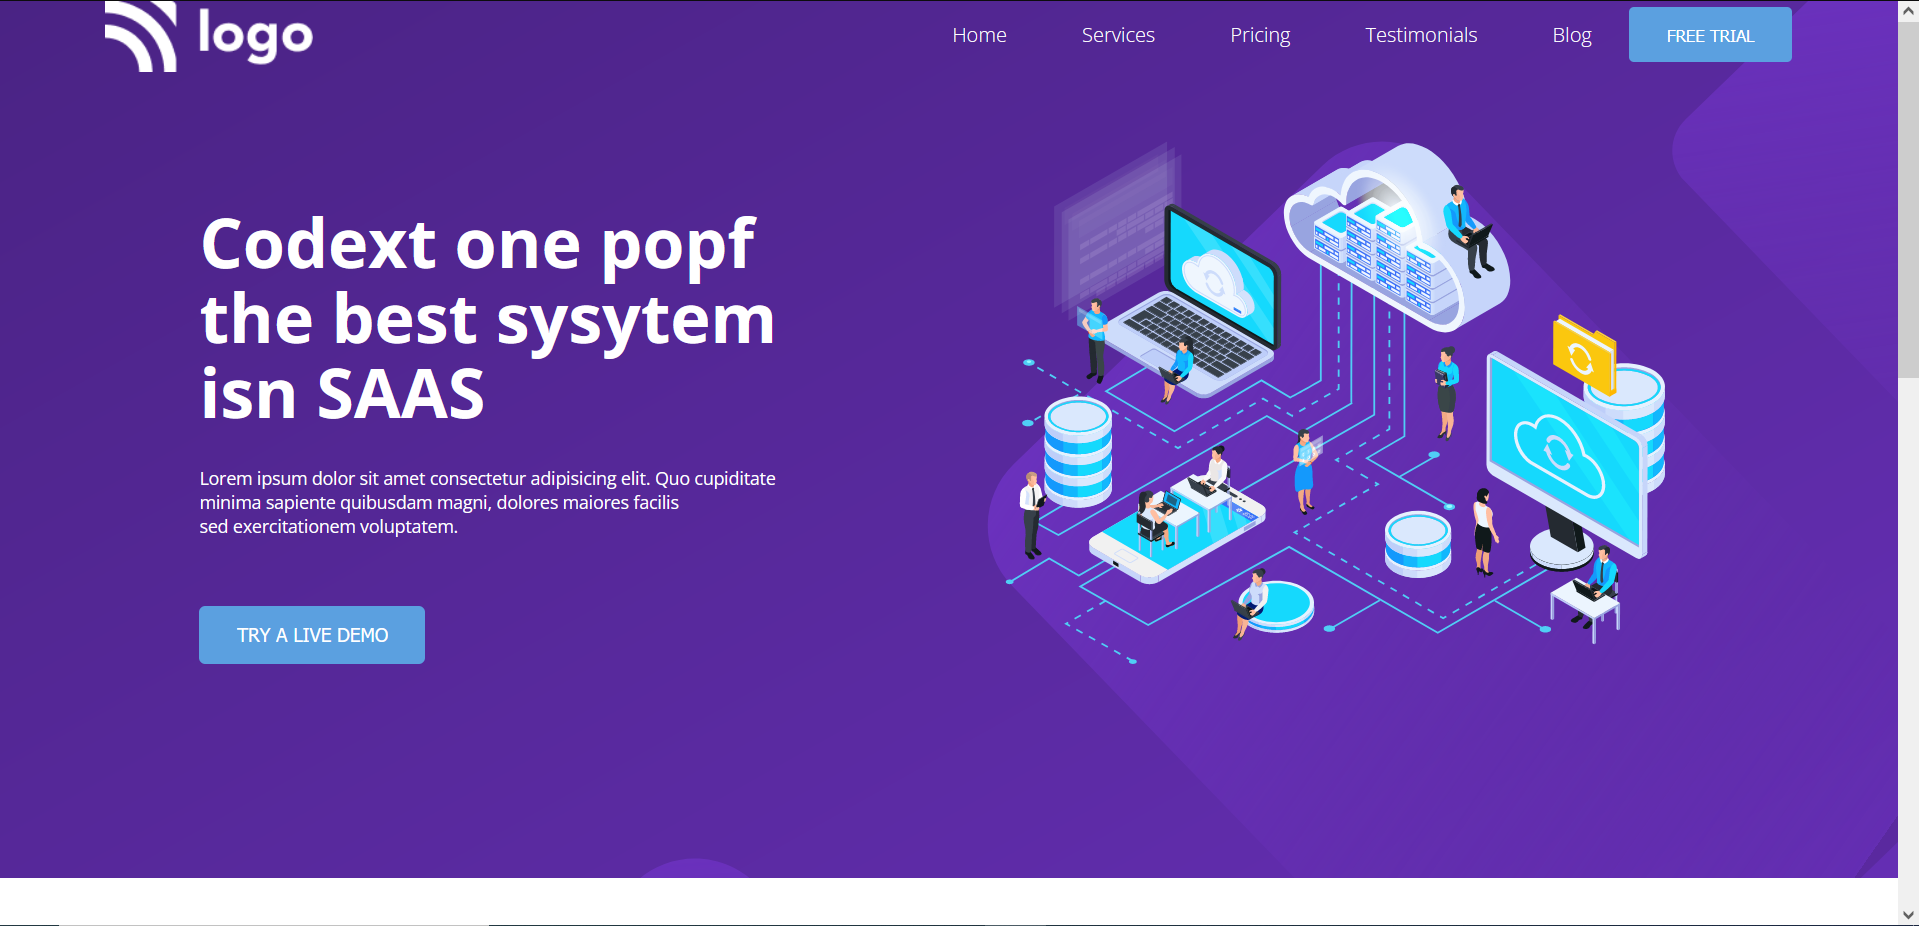
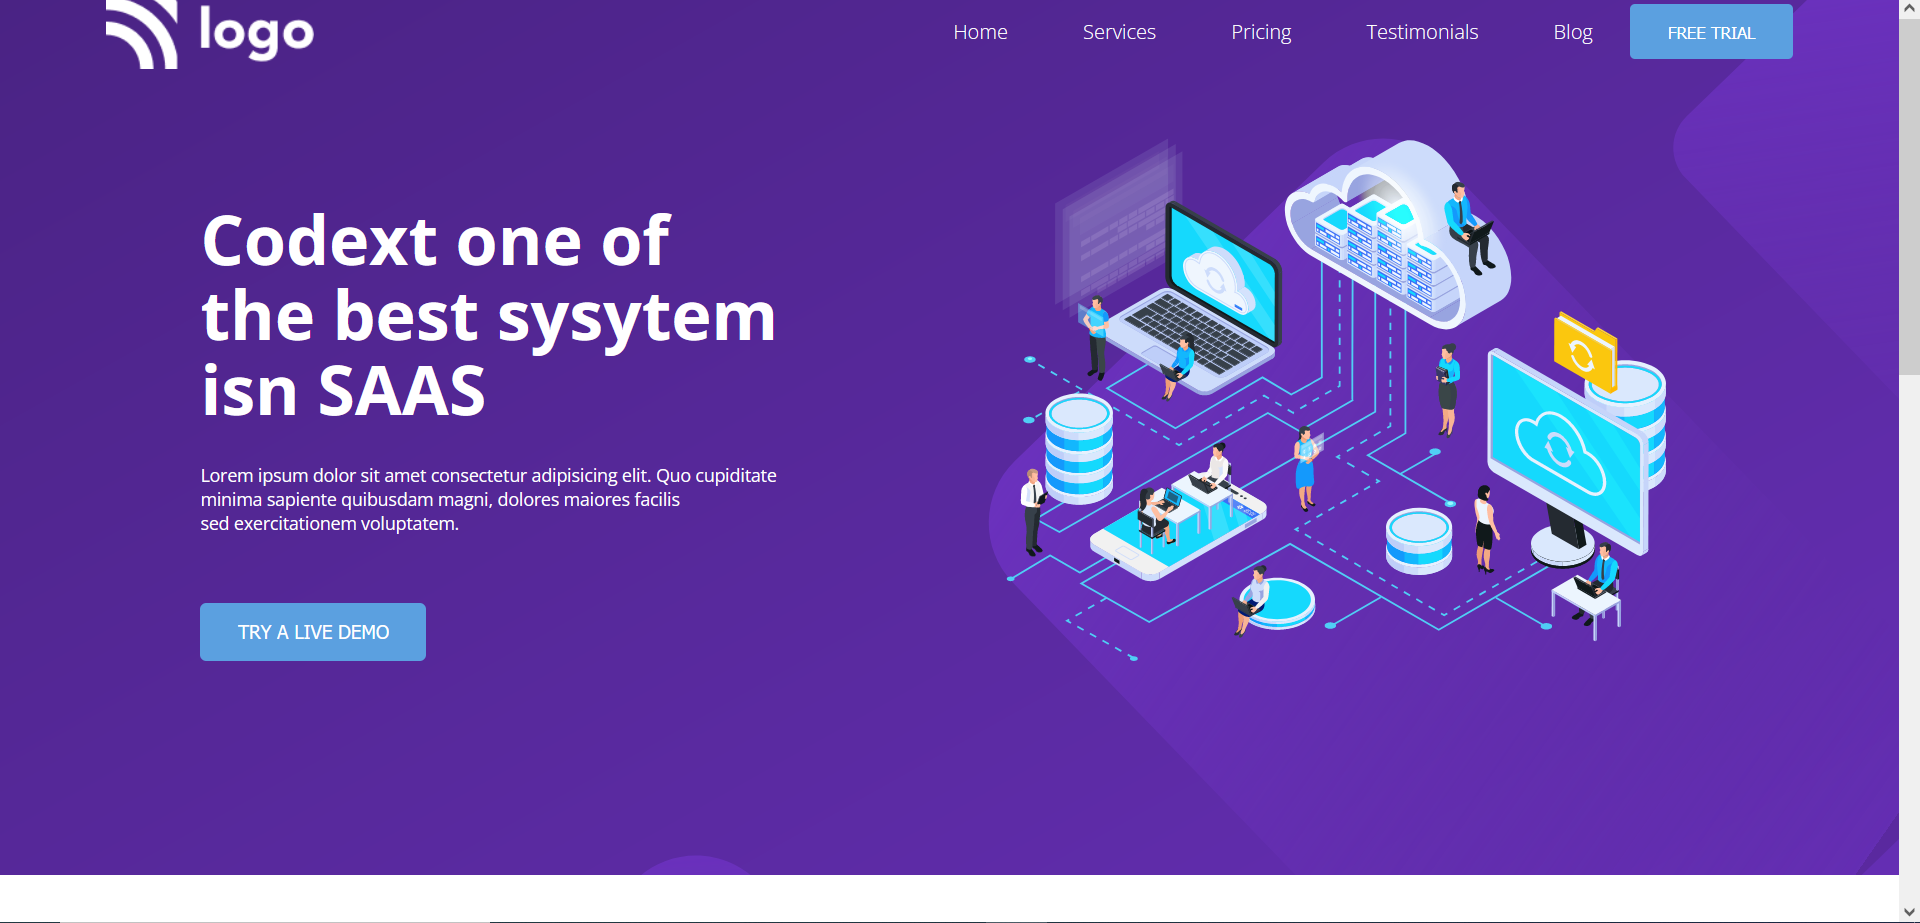
changes to index

diff --git a/index.html b/index.html
@@ -31,7 +31,7 @@
         <div class="hero-container">
           <div class="hero-left">
             <h1>
-              Codext one popf <br />
+              Codext one of <br />
               the best sysytem <br />
               isn SAAS
             </h1>
